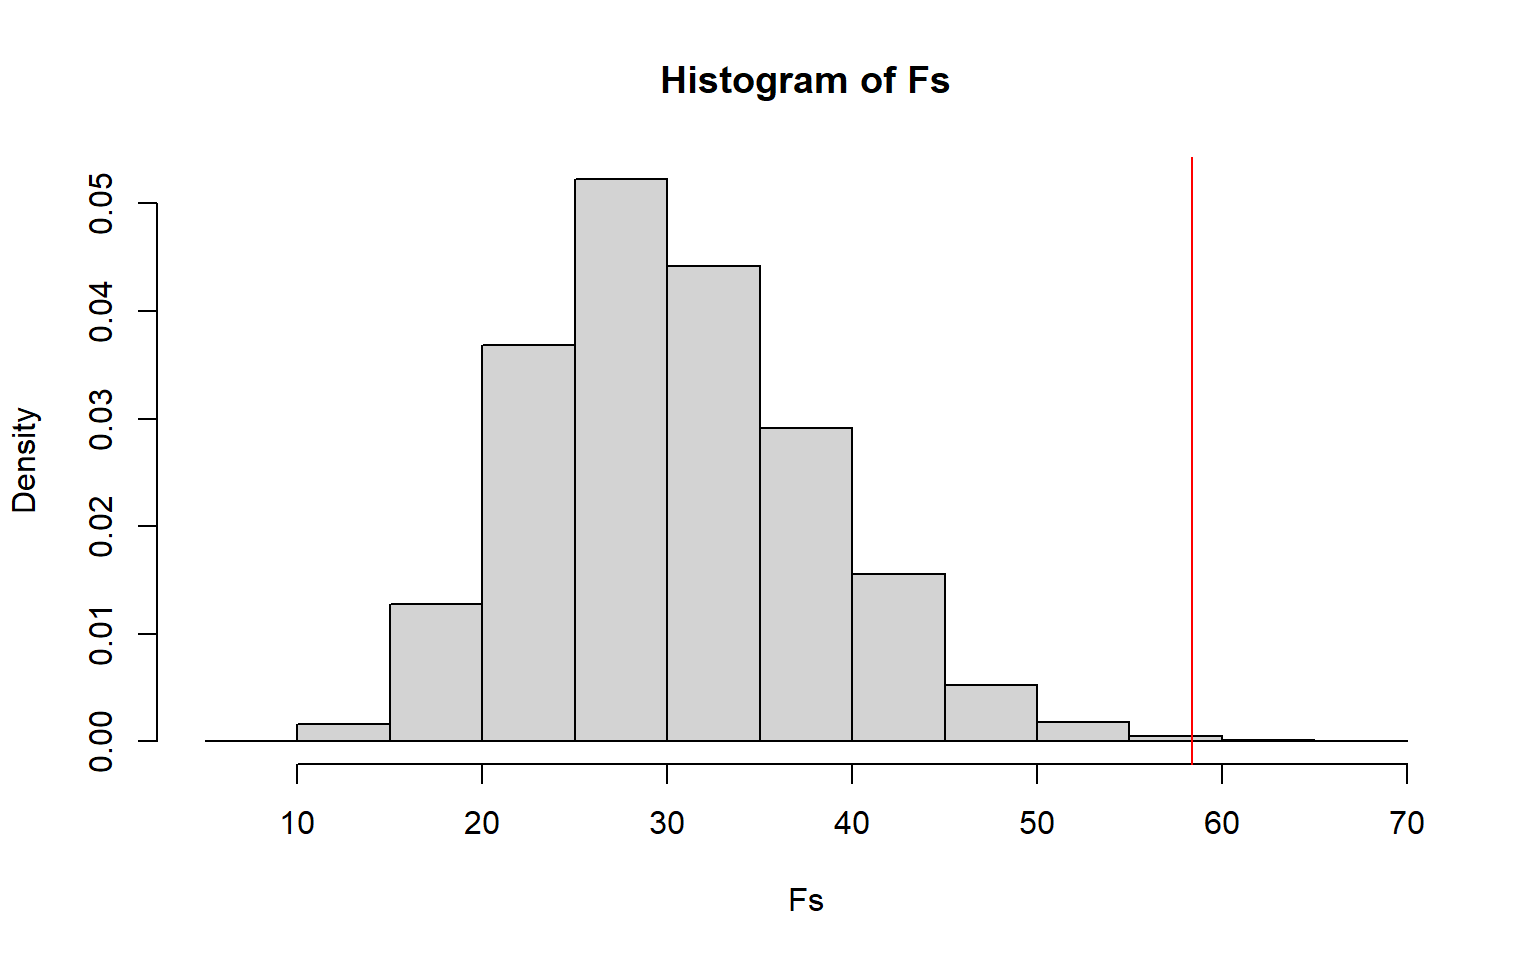
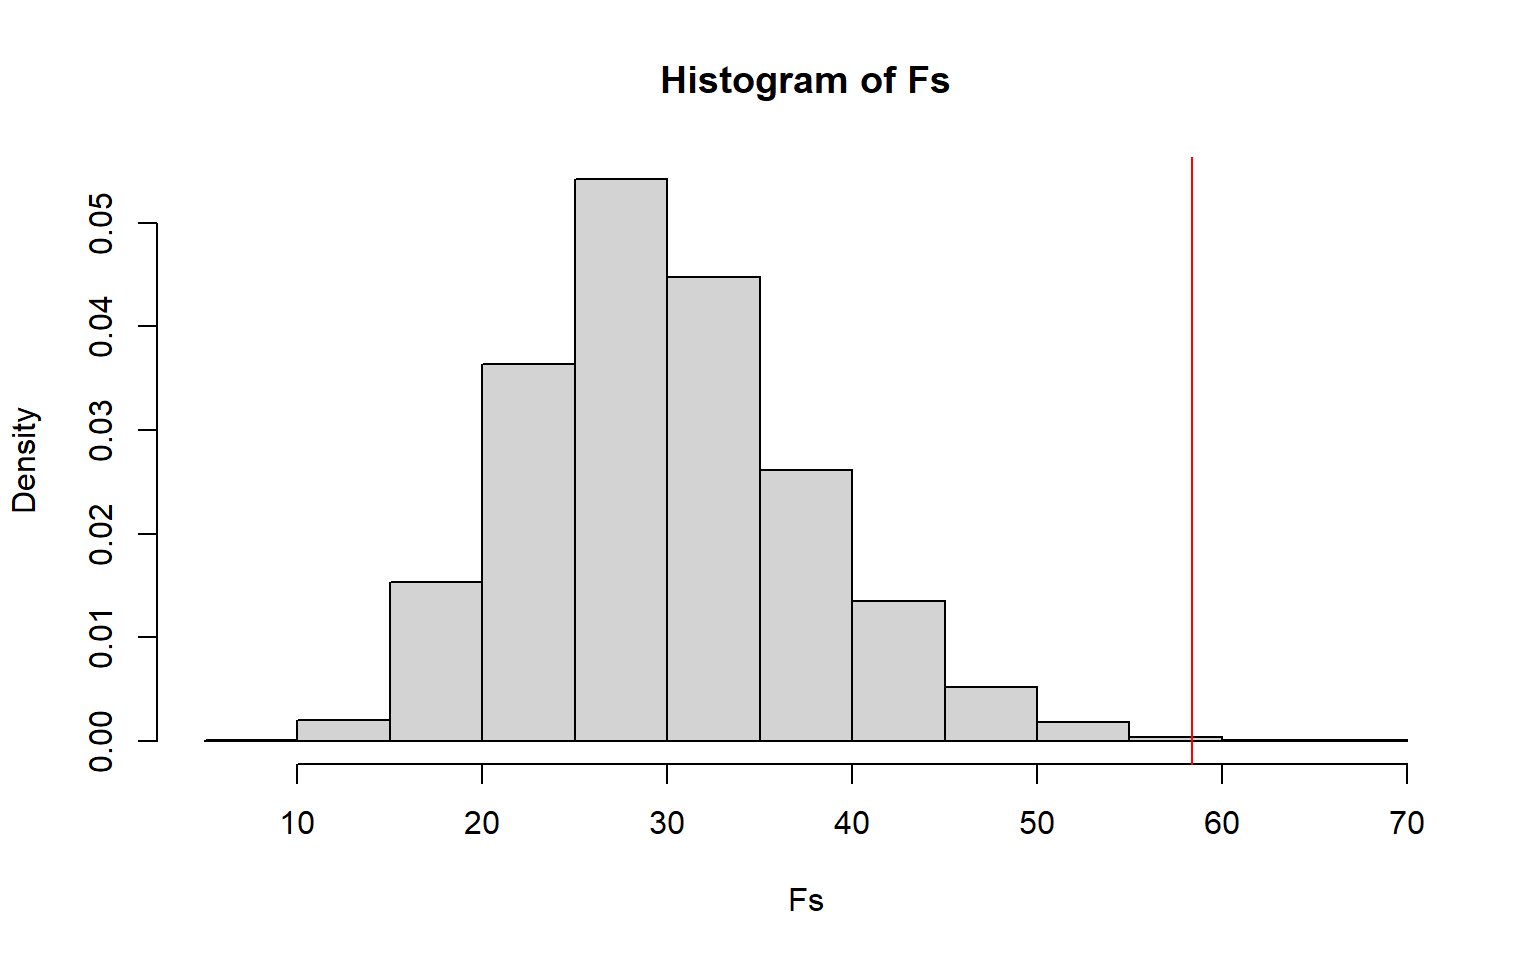
some message

diff --git a/project/project2/index.html b/project/project2/index.html
@@ -43,7 +43,7 @@
         
         <li><a href="/projects/">PROJECTS</a></li>
         
-        <li><a href="/resume.pdf/">RESUME</a></li>
+        <li><a href="/resume/">RESUME</a></li>
         
       
       </ul>
@@ -60,7 +60,7 @@
  
 <div class="blog-title">
           <h4>
-         January 1, 0001 
+         November 11, 2020 
             &nbsp;&nbsp;
             
           </h4>
@@ -77,7 +77,7 @@
 <p>Alistair Keggen
 Project 2</p>
 <pre class="r"><code>library(dplyr)
-library(dplyr, warn.conflicts = FALSE)
+
 
 # Suppress summarise info
 options(dplyr.summarise.inform = FALSE)
@@ -266,7 +266,7 @@ Fs&lt;-replicate(5000,{
 hist(Fs, prob=T); abline(v = obs_F, col=&quot;red&quot;,add=T)</code></pre>
 <p><img src="/project/project2_files/figure-html/unnamed-chunk-3-1.png" width="768" style="display: block; margin: auto;" /></p>
 <pre class="r"><code>mean(Fs&gt;obs_F)</code></pre>
-<pre><code>## [1] 0.0012</code></pre>
+<pre><code>## [1] 0.0016</code></pre>
 <p>The null hypothesis: there is no difference between the observed F statistic and the randomized F statistic. The randomized F statistic gives a scenario where the null hypothesis could be true. Alterior hypothesis: the F statistic and randomized F statistic are significantly different. From the graph, the observed F statistic could be found within the randomized test, so therefore we fail to reject the null hypothesis.</p>
 <ul>
 <li><strong>3. (35 pts)</strong> Linear regression model predicting one of your response variables from at least 2 other variables</li>
@@ -342,9 +342,9 @@ coef(fit)
 samp_distn %&gt;% t %&gt;% as.data.frame %&gt;% summarize_all(sd)</code></pre>
 <pre><code>## (Intercept) lat statustropical depression statustropical
 storm
-## 1 1.186622 0.03779408 1.203763 1.210846
+## 1 1.18815 0.03740965 1.202828 1.218892
 ## lat:statustropical depression lat:statustropical storm
-## 1 0.03913197 0.03930091</code></pre>
+## 1 0.0385845 0.03907599</code></pre>
 <p>The new bootstrapped standard errors are very similar to the robust standard errors. However, the boostrapped standard errors are marginally smaller in every catagory.</p>
 <ul>
 <li><strong>5. (25 pts)</strong> Logistic regression model predicting a binary variable from at least two explanatory variables.</li>
@@ -499,8 +499,8 @@ diags &lt;- rbind(diags, class_diag(probs, truth))
 }
 summarize_all(diags, mean)</code></pre>
 <pre><code>## acc sens spec ppv f1 auc
-## 1 0.5393606 0.3723878 0.6919072 0.5247817 0.4353727
-0.5464046</code></pre>
+## 1 0.5393606 0.3725691 0.6918188 0.5245083 0.4354548
+0.546366</code></pre>
 <pre class="r"><code>storms1 &lt;-storms %&gt;% drop_na(Gender) 
 library(glmnet)
 y &lt;- as.matrix(storms1$Gender)
@@ -510,16 +510,16 @@ lasso_fit &lt;- glmnet(gender_preds, y, family = &quot;binomial&quot;, lambda = 
 coef(lasso_fit)</code></pre>
 <pre><code>## 10 x 1 sparse Matrix of class &quot;dgCMatrix&quot;
 ##                                      s0
-## (Intercept)               -0.5376815365
+## (Intercept)               -0.3993737318
 ## (Intercept)                .           
-## wind                       0.0019872447
+## wind                       .           
 ## pressure                   .           
-## month                      0.0391100209
-## lat                        0.0042868794
-## long                      -0.0007518335
-## category                  -0.2172397492
-## statustropical depression -0.2795266159
-## statustropical storm      -0.0400111623</code></pre>
+## month                      0.0331363228
+## lat                        0.0039800640
+## long                      -0.0001793739
+## category                  -0.1457879119
+## statustropical depression -0.1818805528
+## statustropical storm       .</code></pre>
 <pre class="r"><code>k=10
 
 data &lt;- storms1[sample(nrow(storms1)), ]
@@ -538,8 +538,8 @@ diags &lt;- rbind(diags, class_diag(probs, truth))
 }
 summarize_all(diags, mean)</code></pre>
 <pre><code>## acc sens spec ppv f1 auc
-## 1 0.5392607 0.3724919 0.6919443 0.5250262 0.4354211
-0.5467898</code></pre>
+## 1 0.5392607 0.3722311 0.6918464 0.5243389 0.4351478
+0.5465062</code></pre>
 <p>The first logistic regression model with all variables has an accuracy of 0.5393606, a sensitivity of 0.3724629, a specificity of 0.6918371, a precision of 0.5247642, and an AUC of 0.5465646. The AUC is poor indicating this is not a good model for prediciting whether a huricane will have a man or woman name from the variables. A ten-fold CV with the same model was performed, and the classification diagnostics are as follows: Accuracy = 0.5393606, sensitivity = 0.3726621, specificity = 0.691687, precision = 0.5249807, AUC = 0.5462168. This AUC was worse than the first logistic regression model that had an AUC of .5465646. LASSO was performed on the same model, and the varibles that were retained were month, lat, long, category, status, and wind. Another 10-fod CV was performed only using these varibles, and the AUC decreased to 0.5463381 from 0.5462168 from the first ten-fold CV, and 0.5465646 from the first logistic regression. This means the performance of the model was worse.</p>
 <p>…</p>
 </div>

diff --git a/project/index.html b/project/index.html
@@ -43,7 +43,7 @@
         
         <li><a href="/projects/">PROJECTS</a></li>
         
-        <li><a href="/resume.pdf/">RESUME</a></li>
+        <li><a href="/resume/">RESUME</a></li>
         
       
       </ul>
@@ -59,12 +59,12 @@
               <div class="row">
                 <div class="col-sm-4 col-md-4 col-lg-4">
                   <h5 style="text-align: right">
-                    October 11, 2020
+                    November 11, 2020
                   </h5>
                  </div>
                  <div class="col-sm-8 col-md-8 col-lg-8">
                    <h5 style="text-align: left">
-                    <strong><a href="/project/project1/">Project 1: Exploratory Data Analysis</a></strong>
+                    <strong><a href="/project/project2/">Project 2: Modeling, Testing, and Predicting</a></strong>
                   </h5>
                 </div>
               </div>
@@ -72,12 +72,12 @@
               <div class="row">
                 <div class="col-sm-4 col-md-4 col-lg-4">
                   <h5 style="text-align: right">
-                    January 1, 0001
+                    October 11, 2020
                   </h5>
                  </div>
                  <div class="col-sm-8 col-md-8 col-lg-8">
                    <h5 style="text-align: left">
-                    <strong><a href="/project/project2/">Project 2: Modeling, Testing, and Predicting</a></strong>
+                    <strong><a href="/project/project1/">Project 1: Exploratory Data Analysis</a></strong>
                   </h5>
                 </div>
               </div>

diff --git a/404.html b/404.html
@@ -42,7 +42,7 @@
         
         <li><a href="/projects/">PROJECTS</a></li>
         
-        <li><a href="/resume.pdf/">RESUME</a></li>
+        <li><a href="/resume/">RESUME</a></li>
         
       
       </ul>

diff --git a/categories/index.html b/categories/index.html
@@ -43,7 +43,7 @@
         
         <li><a href="/projects/">PROJECTS</a></li>
         
-        <li><a href="/resume.pdf/">RESUME</a></li>
+        <li><a href="/resume/">RESUME</a></li>
         
       
       </ul>

diff --git a/categories/r/index.html b/categories/r/index.html
@@ -43,7 +43,7 @@
         
         <li><a href="/projects/">PROJECTS</a></li>
         
-        <li><a href="/resume.pdf/">RESUME</a></li>
+        <li><a href="/resume/">RESUME</a></li>
         
       
       </ul>

diff --git a/index.html b/index.html
@@ -42,7 +42,7 @@
         
         <li><a href="/projects/">PROJECTS</a></li>
         
-        <li><a href="/resume.pdf/">RESUME</a></li>
+        <li><a href="/resume/">RESUME</a></li>
         
       
       </ul>

diff --git a/post/2015/07/23/hello-r-markdown/index.html b/post/2015/07/23/hello-r-markdown/index.html
@@ -43,7 +43,7 @@
         
         <li><a href="/projects/">PROJECTS</a></li>
         
-        <li><a href="/resume.pdf/">RESUME</a></li>
+        <li><a href="/resume/">RESUME</a></li>
         
       
       </ul>

diff --git a/post/2020/12/05/project-1/index.html b/post/2020/12/05/project-1/index.html
@@ -43,7 +43,7 @@
         
         <li><a href="/projects/">PROJECTS</a></li>
         
-        <li><a href="/resume.pdf/">RESUME</a></li>
+        <li><a href="/resume/">RESUME</a></li>
         
       
       </ul>

diff --git a/post/index.html b/post/index.html
@@ -43,7 +43,7 @@
         
         <li><a href="/projects/">PROJECTS</a></li>
         
-        <li><a href="/resume.pdf/">RESUME</a></li>
+        <li><a href="/resume/">RESUME</a></li>
         
       
       </ul>

diff --git a/project/project1/index.html b/project/project1/index.html
@@ -43,7 +43,7 @@
         
         <li><a href="/projects/">PROJECTS</a></li>
         
-        <li><a href="/resume.pdf/">RESUME</a></li>
+        <li><a href="/resume/">RESUME</a></li>
         
       
       </ul>

diff --git a/projects/index.html b/projects/index.html
@@ -43,7 +43,7 @@
         
         <li><a href="/projects/">PROJECTS</a></li>
         
-        <li><a href="/resume.pdf/">RESUME</a></li>
+        <li><a href="/resume/">RESUME</a></li>
         
       
       </ul>

diff --git a/resume/index.html b/resume/index.html
@@ -43,7 +43,7 @@
         
         <li><a href="/projects/">PROJECTS</a></li>
         
-        <li><a href="/resume.pdf/">RESUME</a></li>
+        <li><a href="/resume/">RESUME</a></li>
         
       
       </ul>
